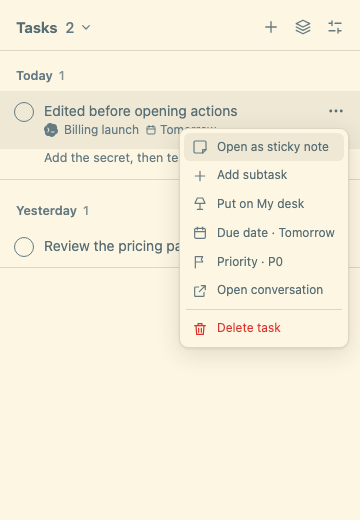
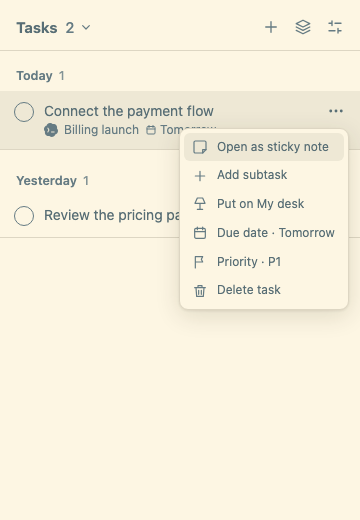
Match delete task styling to the other menu actions

diff --git a/ui/index.html b/ui/index.html
@@ -94,7 +94,6 @@
     <button class="set-due" data-action="set-due" role="menuitem" aria-haspopup="dialog"><svg viewBox="0 0 24 24"><rect x="4" y="5" width="16" height="15" rx="2"/><path d="M4 10h16M8 3v4M16 3v4"/></svg><span>Due date</span></button>
     <button class="set-prio" data-action="set-prio" role="menuitem" aria-haspopup="menu"><svg viewBox="0 0 24 24"><path d="M5 21V4M5 4h11l-2 4 2 4H5"/></svg><span>Priority</span></button>
     <button class="open-link" data-action="open-link" role="menuitem"><svg viewBox="0 0 24 24"><path d="M14 4h6v6M20 4l-9 9M18 14v5a1 1 0 0 1-1 1H5a1 1 0 0 1-1-1V7a1 1 0 0 1 1-1h5"/></svg><span>Open conversation</span></button>
-    <div class="menu-sep" role="separator"></div>
     <button class="delete" data-action="delete" role="menuitem"><svg viewBox="0 0 24 24"><path d="M4 7h16M10 11v6M14 11v6M6 7l1 13h10l1-13M9 7V4h6v3"/></svg><span>Delete task</span></button>
   </div>
 

diff --git a/ui/style.css b/ui/style.css
@@ -415,7 +415,6 @@ button:focus-visible, [role="button"]:focus-visible { outline: 2px solid var(--a
 #task-menu button svg { width: 16px; height: 16px; flex: none; color: var(--muted); }
 #task-menu button::after { display: none; }
 #task-menu button:focus { background: var(--bg-hover); }
-#task-menu .delete, #task-menu .delete svg { color: var(--danger); }
 @media (hover: none) {
   .row-status { padding-right: 27px; }
   .row-status .more { opacity: 1; pointer-events: auto; }
